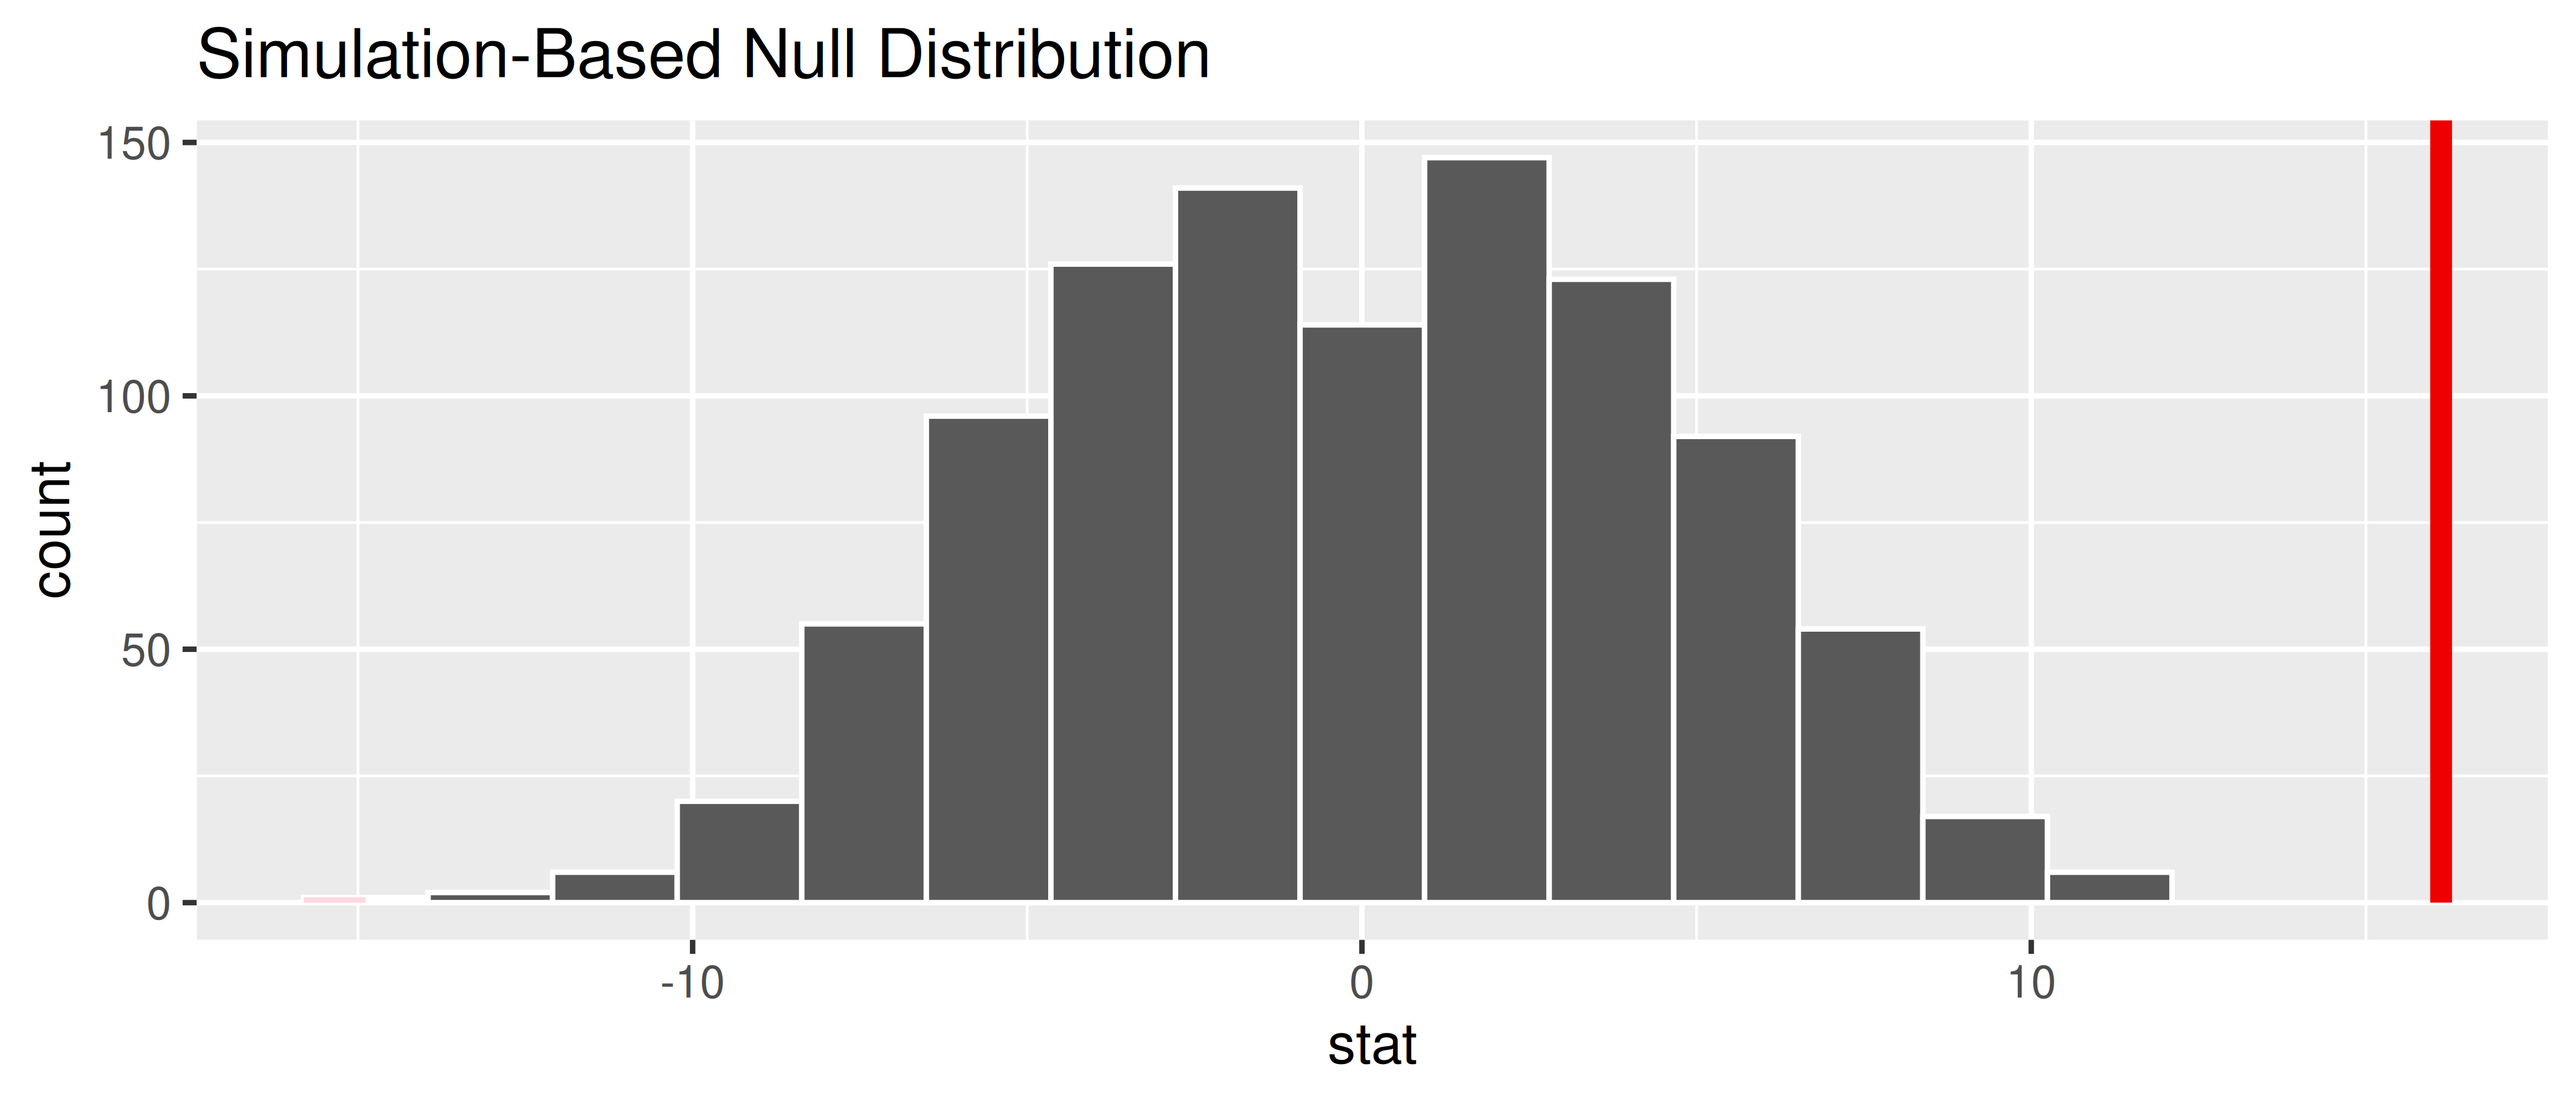
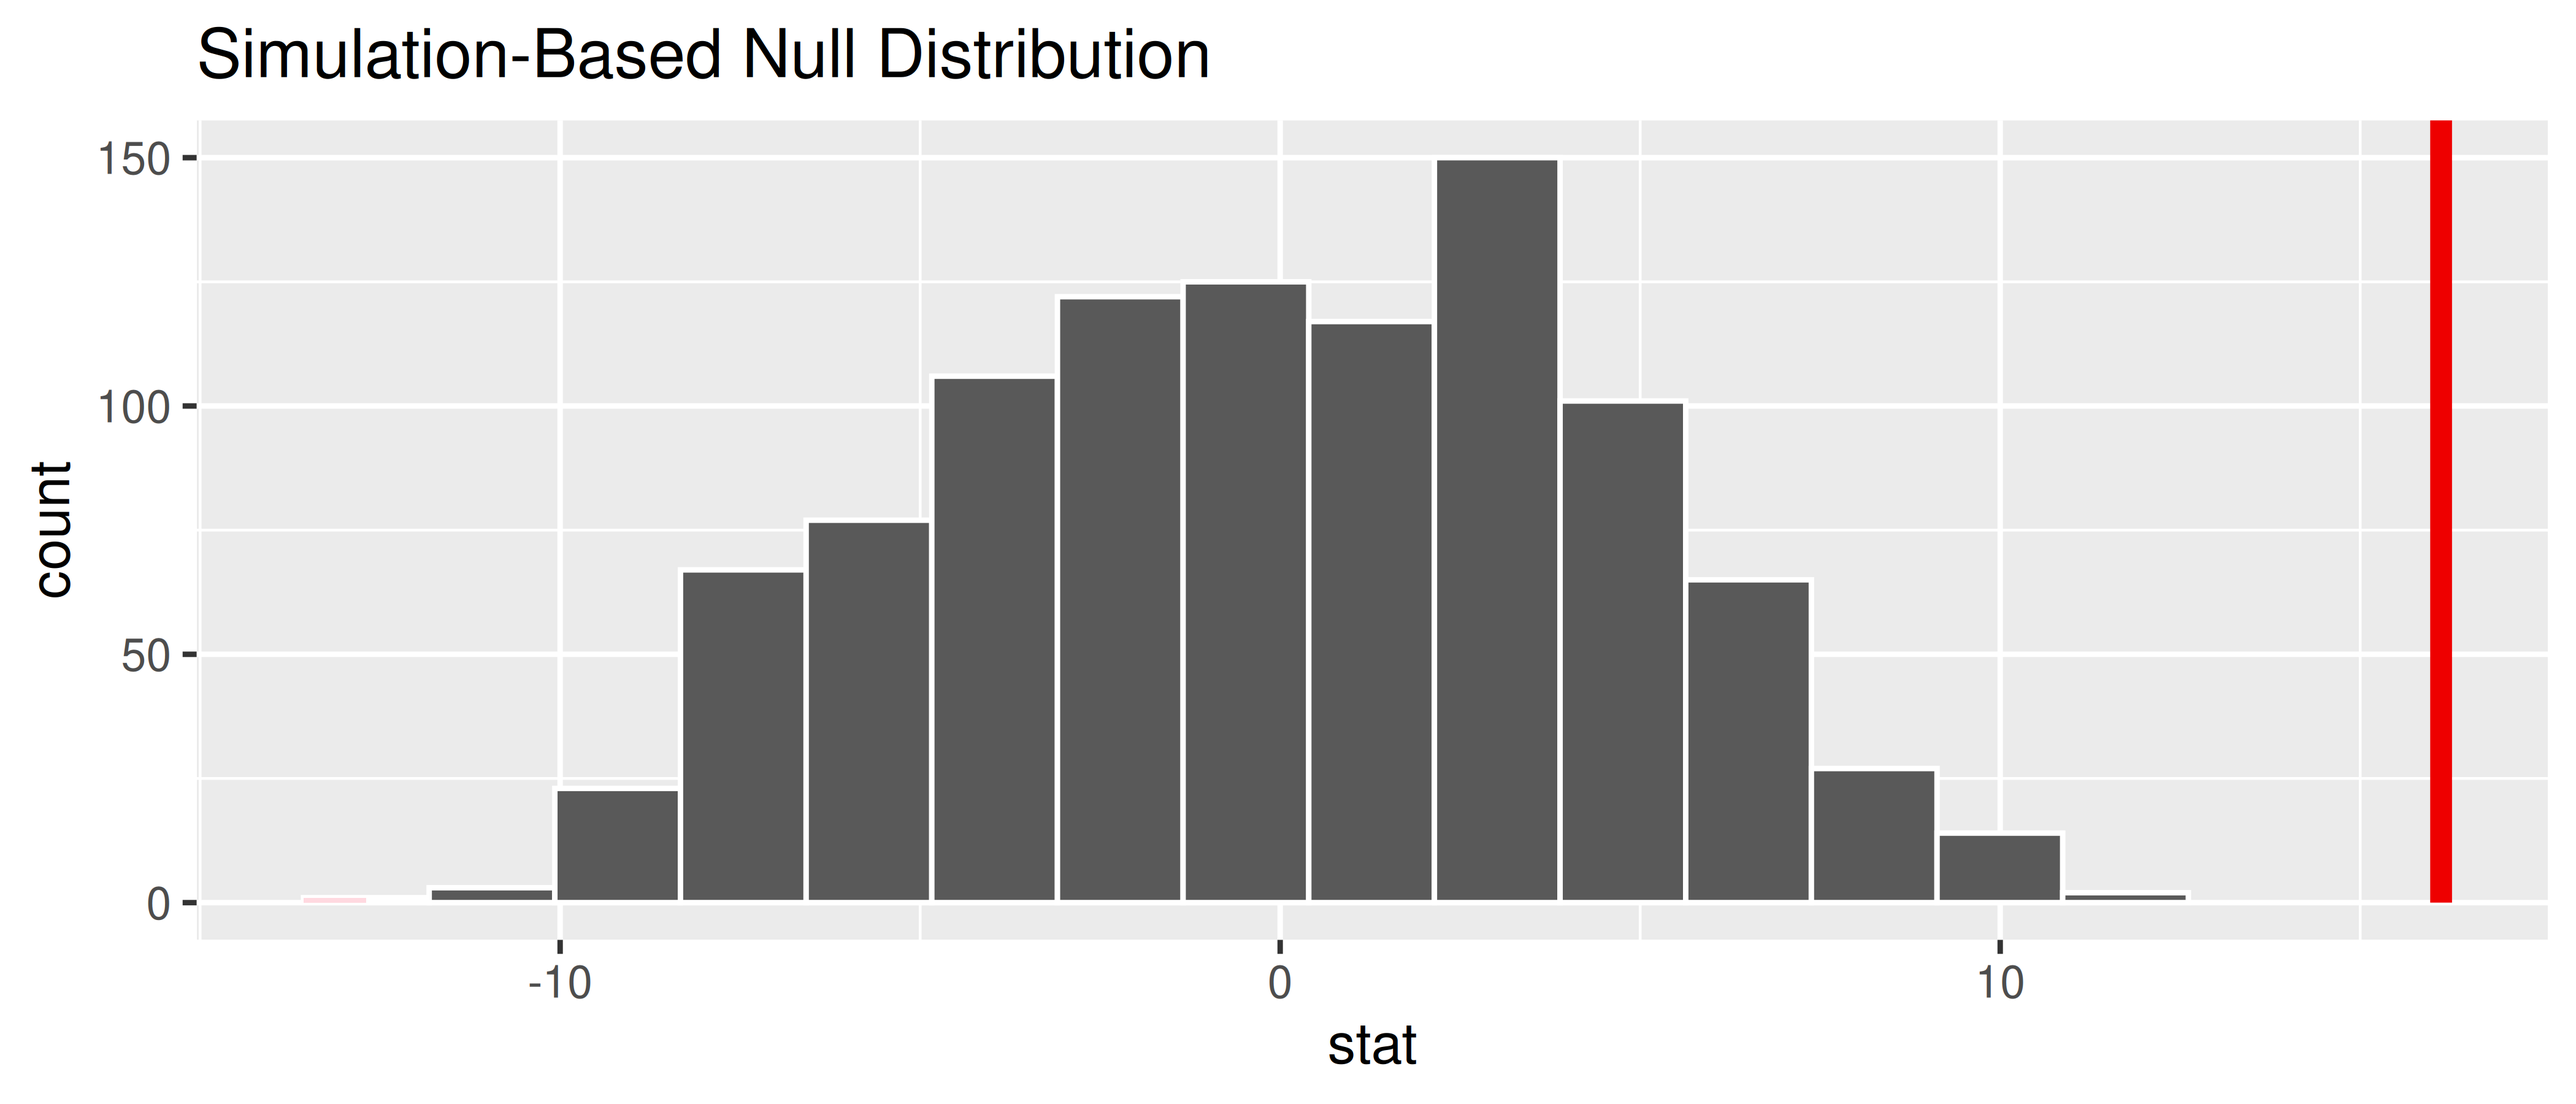
Add jump-to-chapter index at top of Exercise Solutions appendix

diff --git a/STAT145/textbook/appendices/exercise-solutions.html b/STAT145/textbook/appendices/exercise-solutions.html
@@ -601,7 +601,57 @@ window.Quarto = {
 </header>
 
 
-<p>Solutions to the <strong>odd-numbered</strong> end-of-chapter exercises are provided below, organized by chapter. Use the on-page table of contents (right sidebar) or your browser’s Find to jump to a specific chapter. Even-numbered exercises are reserved for graded assignments; full solutions are available to instructors.</p>
+<p>Solutions to the <strong>odd-numbered</strong> end-of-chapter exercises are provided below, organized by chapter. Even-numbered exercises are reserved for graded assignments; full solutions are available to instructors.</p>
+<div class="callout callout-style-simple callout-note no-icon callout-titled">
+<div class="callout-header d-flex align-content-center" data-bs-toggle="collapse" data-bs-target=".callout-1-contents" aria-controls="callout-1" aria-expanded="true" aria-label="Toggle callout">
+<div class="callout-icon-container">
+<i class="callout-icon no-icon"></i>
+</div>
+<div class="callout-title-container flex-fill">
+Jump to a chapter
+</div>
+<div class="callout-btn-toggle d-inline-block border-0 py-1 ps-1 pe-0 float-end"><i class="callout-toggle"></i></div>
+</div>
+<div id="callout-1" class="callout-1-contents callout-collapse collapse show">
+<div class="callout-body-container callout-body">
+<div style="column-count: 2; column-gap: 2em;">
+<ul>
+<li><a href="#sec-solutions-intro-to-data">Ch 1 — Introduction to Data</a></li>
+<li><a href="#sec-solutions-study-design">Ch 2 — Data Collection and Study Design</a></li>
+<li><a href="#sec-solutions-data-visualization">Ch 3 — Exploring Categorical Data</a></li>
+<li><a href="#sec-solutions-describing-distributions">Ch 4 — Exploring Quantitative Data</a></li>
+<li><a href="#sec-solutions-relationships">Ch 5 — Relationships Between Variables</a></li>
+<li><a href="#sec-solutions-sampling-variability">Ch 6 — Sampling Variability</a></li>
+<li><a href="#sec-solutions-randomization-tests">Ch 7 — Randomization Tests</a></li>
+<li><a href="#sec-solutions-decision-errors">Ch 8 — Decision Errors</a></li>
+<li><a href="#sec-solutions-bootstrap-ci">Ch 9 — Bootstrap Confidence Intervals</a></li>
+<li><a href="#sec-solutions-sampling-distributions">Ch 10 — Sampling Distributions via Simulation</a></li>
+<li><a href="#sec-solutions-normal-approximation">Ch 11 — Normal Approximation</a></li>
+<li><a href="#sec-solutions-inference-proportions">Ch 12 — Inference for Proportions</a></li>
+<li><a href="#sec-solutions-ci-for-means">Ch 13 — Confidence Intervals for Means</a></li>
+<li><a href="#sec-solutions-hypothesis-tests-means">Ch 14 — Hypothesis Tests for Means</a></li>
+<li><a href="#sec-solutions-chisq-gof">Ch 15 — Chi-Square Goodness of Fit</a></li>
+<li><a href="#sec-solutions-chisq-independence">Ch 16 — Chi-Square Test of Independence</a></li>
+<li><a href="#sec-solutions-anova">Ch 17 — Analysis of Variance</a></li>
+<li><a href="#sec-solutions-multiple-comparisons">Ch 18 — Multiple Comparisons</a></li>
+<li><a href="#sec-solutions-correlation">Ch 19 — Correlation</a></li>
+<li><a href="#sec-solutions-linear-regression">Ch 20 — Linear Regression</a></li>
+<li><a href="#sec-solutions-prediction-model-fit">Ch 21 — Prediction and Model Fit</a></li>
+<li><a href="#sec-solutions-anova-for-regression">Ch 22 — ANOVA for Regression</a></li>
+<li><a href="#sec-solutions-multiple-regression">Ch 23 — Multiple Regression</a></li>
+<li><a href="#sec-solutions-probability-rules">Ch 24 — Probability Rules</a></li>
+<li><a href="#sec-solutions-random-variables">Ch 25 — Random Variables</a></li>
+<li><a href="#sec-solutions-expected-value">Ch 26 — Expected Value and Variance</a></li>
+<li><a href="#sec-solutions-binomial">Ch 27 — Binomial Distribution</a></li>
+<li><a href="#sec-solutions-normal-distribution">Ch 28 — More About the Normal Distribution</a></li>
+<li><a href="#sec-solutions-type-ii-error">Ch 29 — Type II Error and Power</a></li>
+<li><a href="#sec-solutions-statistical-power">Ch 30 — Statistical Power</a></li>
+<li><a href="#sec-solutions-sample-size">Ch 31 — Sample Size Planning</a></li>
+</ul>
+</div>
+</div>
+</div>
+</div>
 <section id="sec-solutions-intro-to-data" class="level2" data-number="E.1">
 <h2 data-number="E.1" class="anchored" data-anchor-id="sec-solutions-intro-to-data"><span class="header-section-number">E.1</span> Chapter 1 — Introduction to Data</h2>
 <p>Solutions to the odd-numbered exercises in <a href="../chapters/intro-to-data.html">Chapter 1 — Introduction to Data</a>.</p>

diff --git a/STAT145/textbook/tech/tech-tutorial-simulate.html b/STAT145/textbook/tech/tech-tutorial-simulate.html
@@ -712,7 +712,7 @@ Jamovi: built-in menus don’t shuffle
 <pre><code># A tibble: 1 × 2
   lower_ci upper_ci
      &lt;dbl&gt;    &lt;dbl&gt;
-1     6.82     7.31</code></pre>
+1     6.83     7.31</code></pre>
 </div>
 <div class="sourceCode cell-code" id="cb6"><pre class="sourceCode r code-with-copy"><code class="sourceCode r"><span id="cb6-1"><a href="#cb6-1" aria-hidden="true" tabindex="-1"></a>boot_dist <span class="sc">|&gt;</span></span>
 <span id="cb6-2"><a href="#cb6-2" aria-hidden="true" tabindex="-1"></a>  <span class="fu">visualize</span>() <span class="sc">+</span></span>
